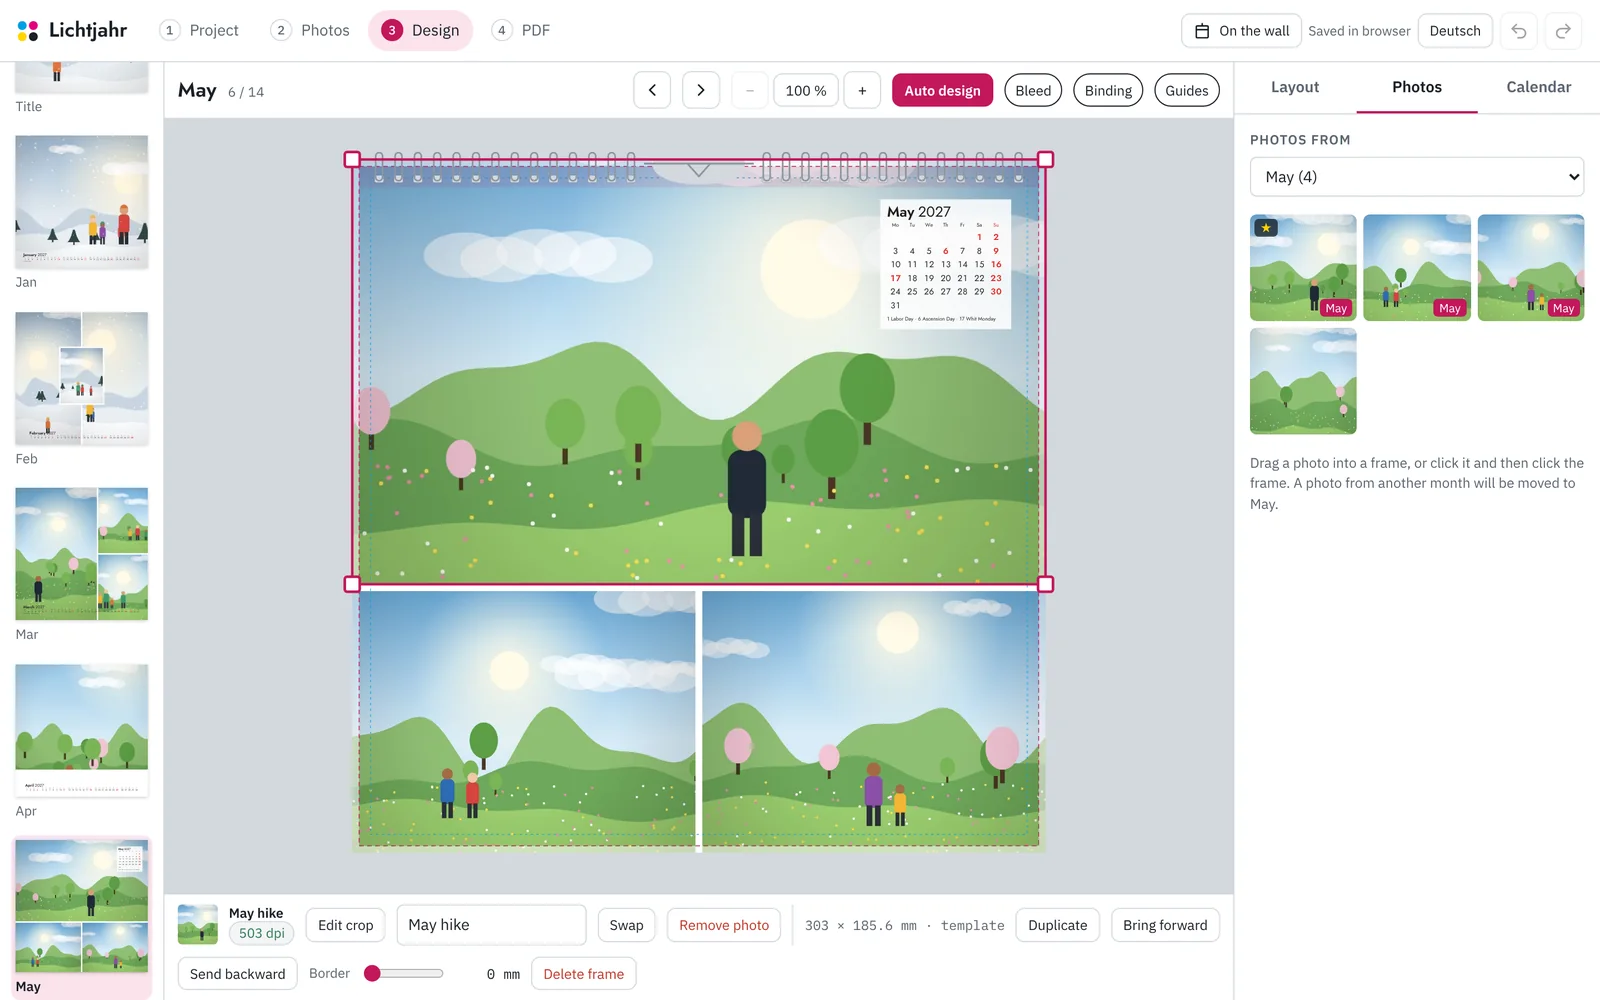
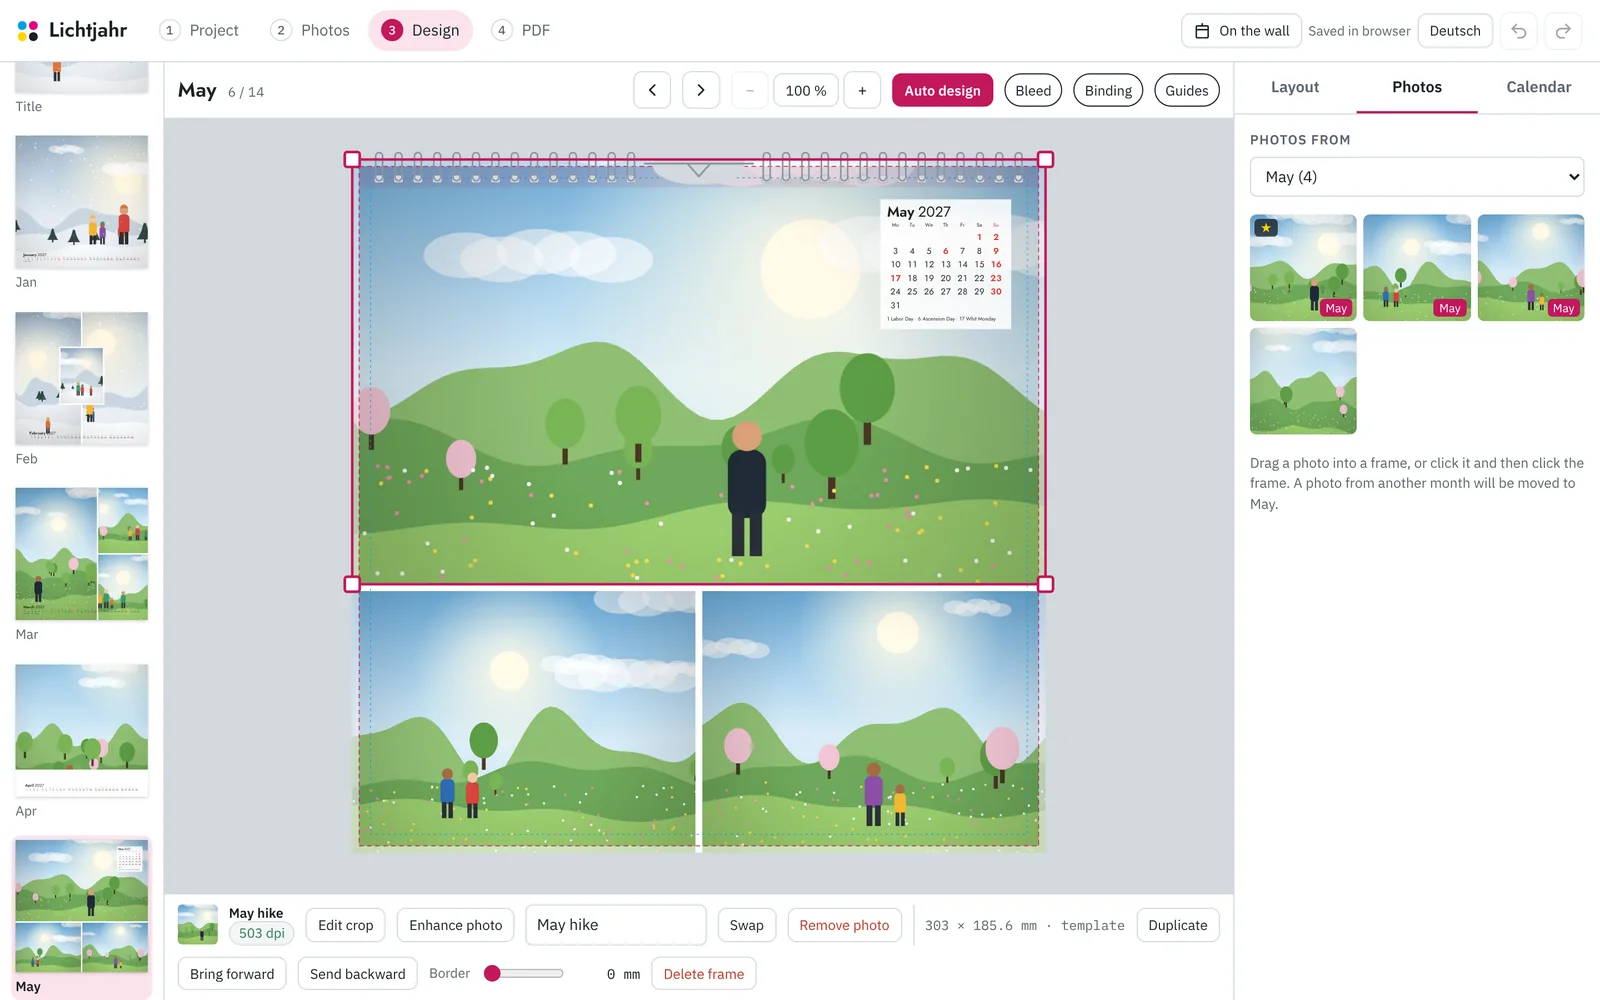
Refresh README screenshots, contributing notes for new tests
Claude-Session: https://claude.ai/code/session_019n7nwYECAPiHJDbBoTsf1A

Changed region(s): [[0.3438, 0.899, 0.75, 0.93], [0.125, 0.961, 0.4688, 0.992], [0.25, 0.899, 0.3125, 0.93]]

diff --git a/CONTRIBUTING.md b/CONTRIBUTING.md
@@ -83,6 +83,9 @@ pytest
   (e.g. a browser and a PDF viewer).
 - For changes to the service or its connection (`prototyp/src/b1_service.js`): `node tools/e2e-dienst.cjs`
   starts the service with test photos and runs through the most important workflows in the browser.
+- For changes to photo enhancement (`prototyp/src/b4_adjust.js` or `apply_adjust` in the service): the parity test in
+  `backend/tests/test_adjust.py` runs the app's JavaScript in Node against numpy, so preview and print stay identical.
+- Face recognition tests download the SFace model once (10 MB); offline, point `LICHTJAHR_SFACE` to a local copy or they are skipped.
 - If the look has changed: `node tools/screenshots.cjs` (browser-only views) and `node tools/screenshots-dienst.cjs`
   (views that need the local service) regenerate the README images in English and German
   (these scripts need Playwright with Chromium and Python with Pillow; `i18n-check.cjs` needs Playwright).
